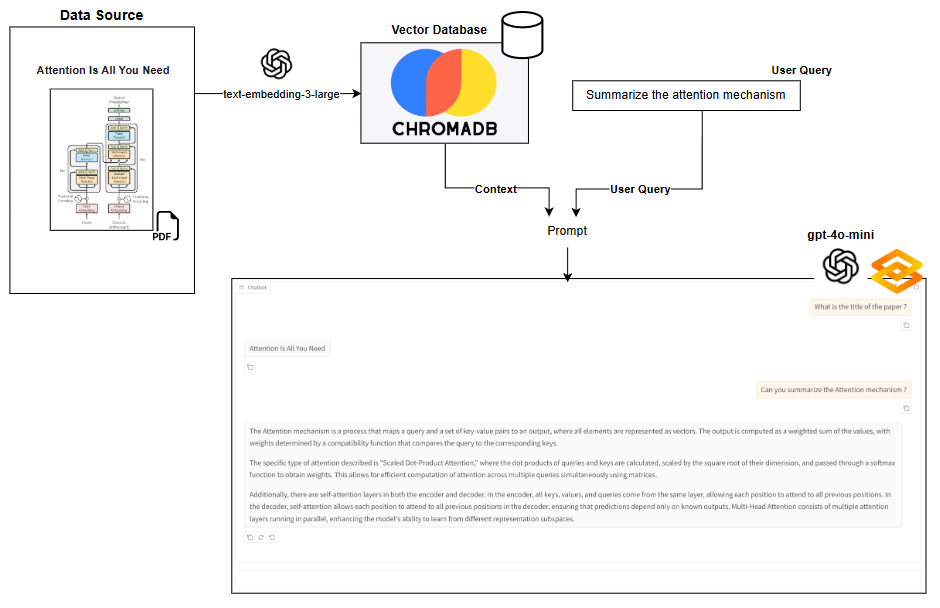
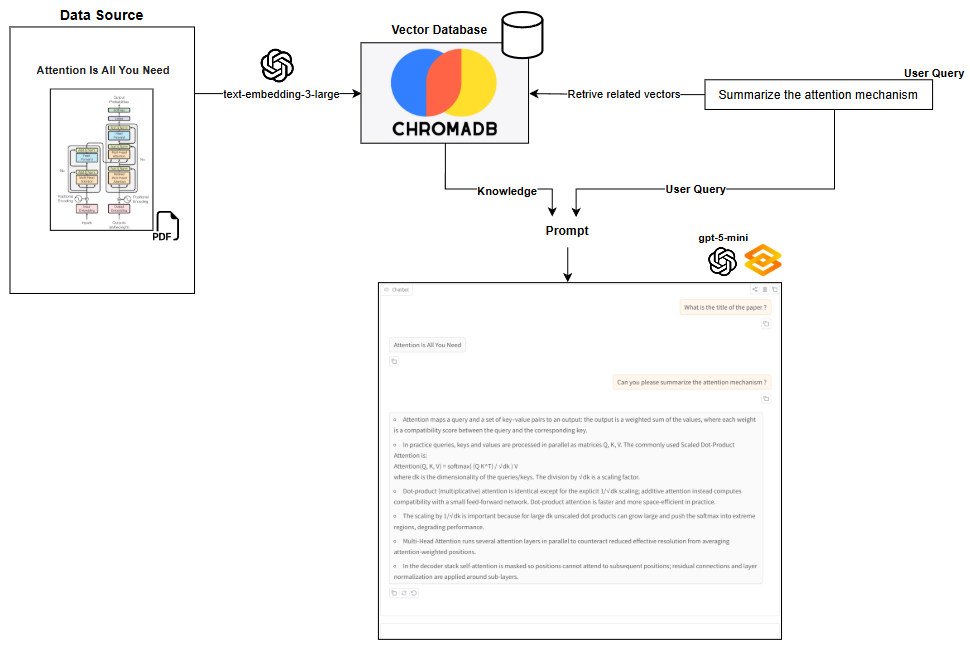
Update project

diff --git a/chatbot.py b/chatbot.py
@@ -24,20 +24,22 @@ load_dotenv()   # Load environment variables from .env file (OPENAI_API_KEY)
 # ---------------------------------
 DATA_PATH = r"data"
 CHROMA_PATH = r"chroma_db"
+EMBEDD_MODEL = r"text-embedding-3-large"
+LLM_MODEL = r"gpt-5-mini"
 
 # ---------------------------------
-# Embeddings and LLM model 
+# The LLM model
 # --------------------------------- 
 
-# Used to convert text into vector embeddings for similarity search
-embeddings_model = OpenAIEmbeddings(model="text-embedding-3-large")
-
 # Initiate the LLM model
-llm = ChatOpenAI(temperature=0.5, model='gpt-4o-mini')
+llm = ChatOpenAI(temperature=0.5, model=LLM_MODEL)
 
 # ---------------------------------
 # Vector store 
 # --------------------------------- 
+
+# Embedding model to convert text into vector embeddings for similarity search
+embeddings_model = OpenAIEmbeddings(model=EMBEDD_MODEL)
 
 # Connect to the chromadb
 vector_store = Chroma(

diff --git a/ingest_data.py b/ingest_data.py
@@ -28,6 +28,7 @@ load_dotenv()   # Load environment variables from .env file (OPENAI_API_KEY)
 # ---------------------------------
 DATA_PATH = r"data"
 CHROMA_PATH = r"chroma_db"
+EMBEDD_MODEL = r"text-embedding-3-large"
 os.makedirs(CHROMA_PATH, exist_ok=True)
 
 # ---------------------------------
@@ -59,7 +60,7 @@ uuids = [str(uuid4()) for _ in range(len(chunks))]
 # --------------------------------- 
 
 # Initiate the embeddings model
-embeddings_model = OpenAIEmbeddings(model="text-embedding-3-large")
+embeddings_model = OpenAIEmbeddings(model=EMBEDD_MODEL)
 
 # Initiate the vector store
 vector_store = Chroma(
